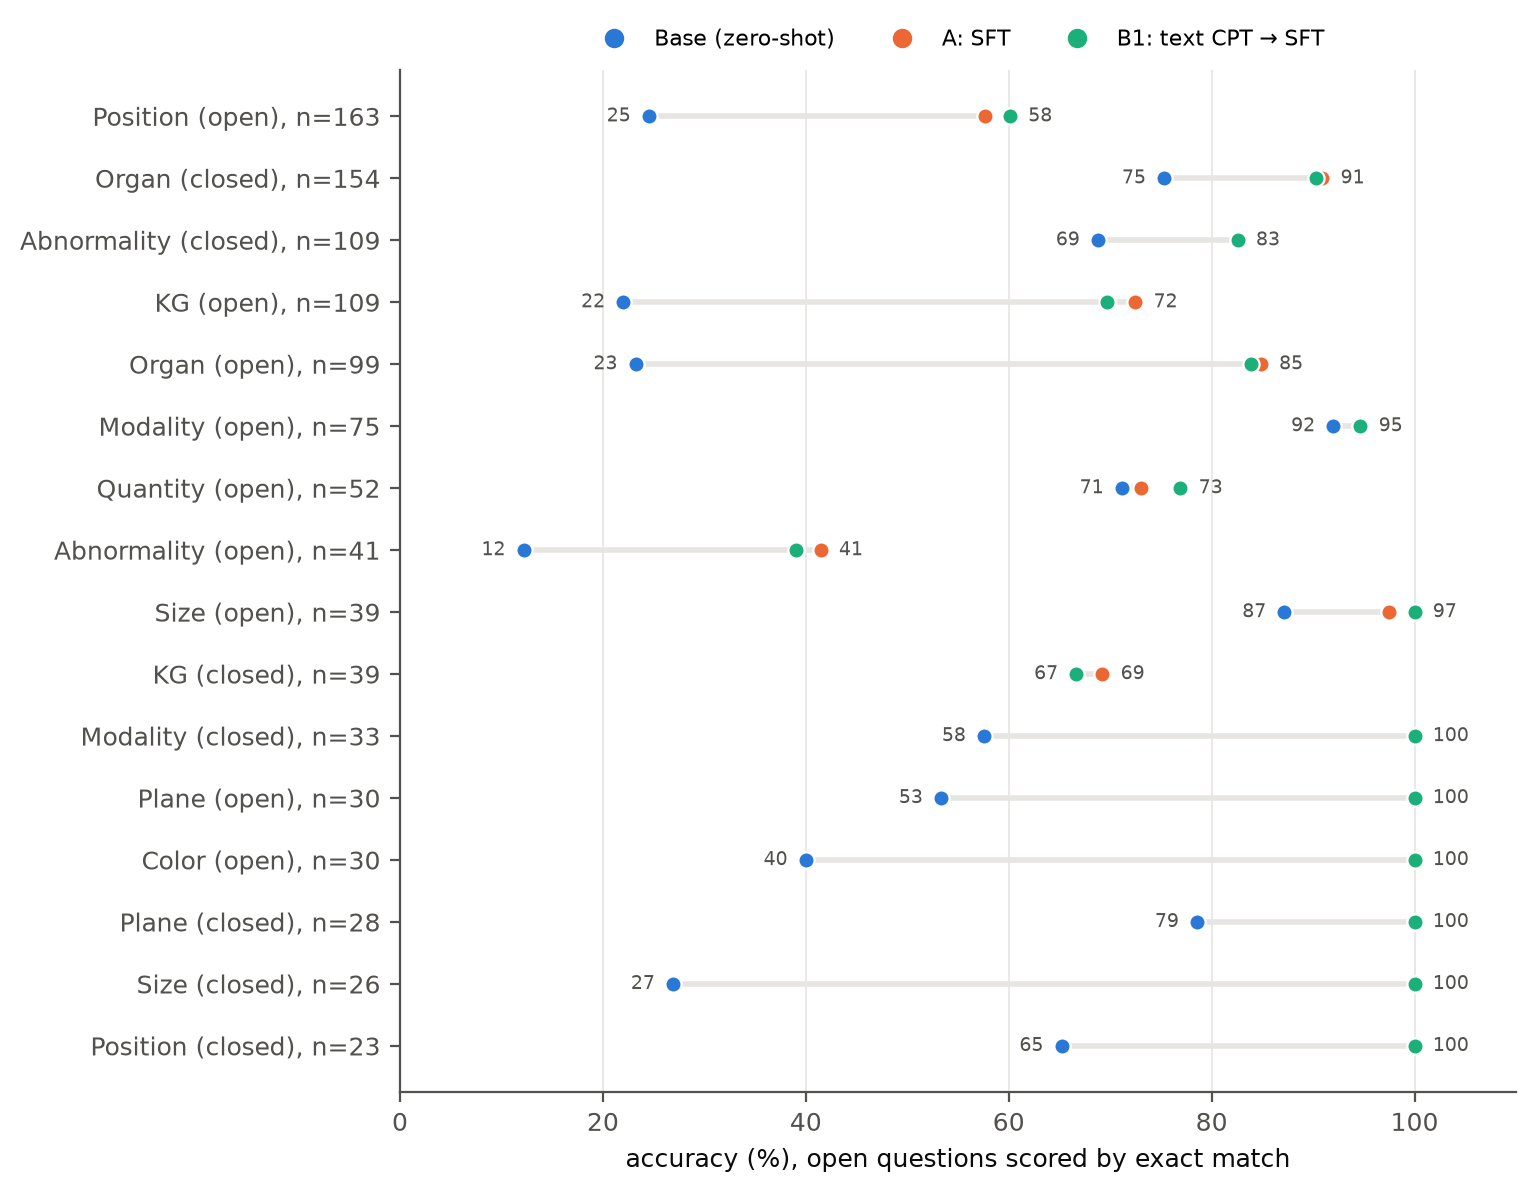
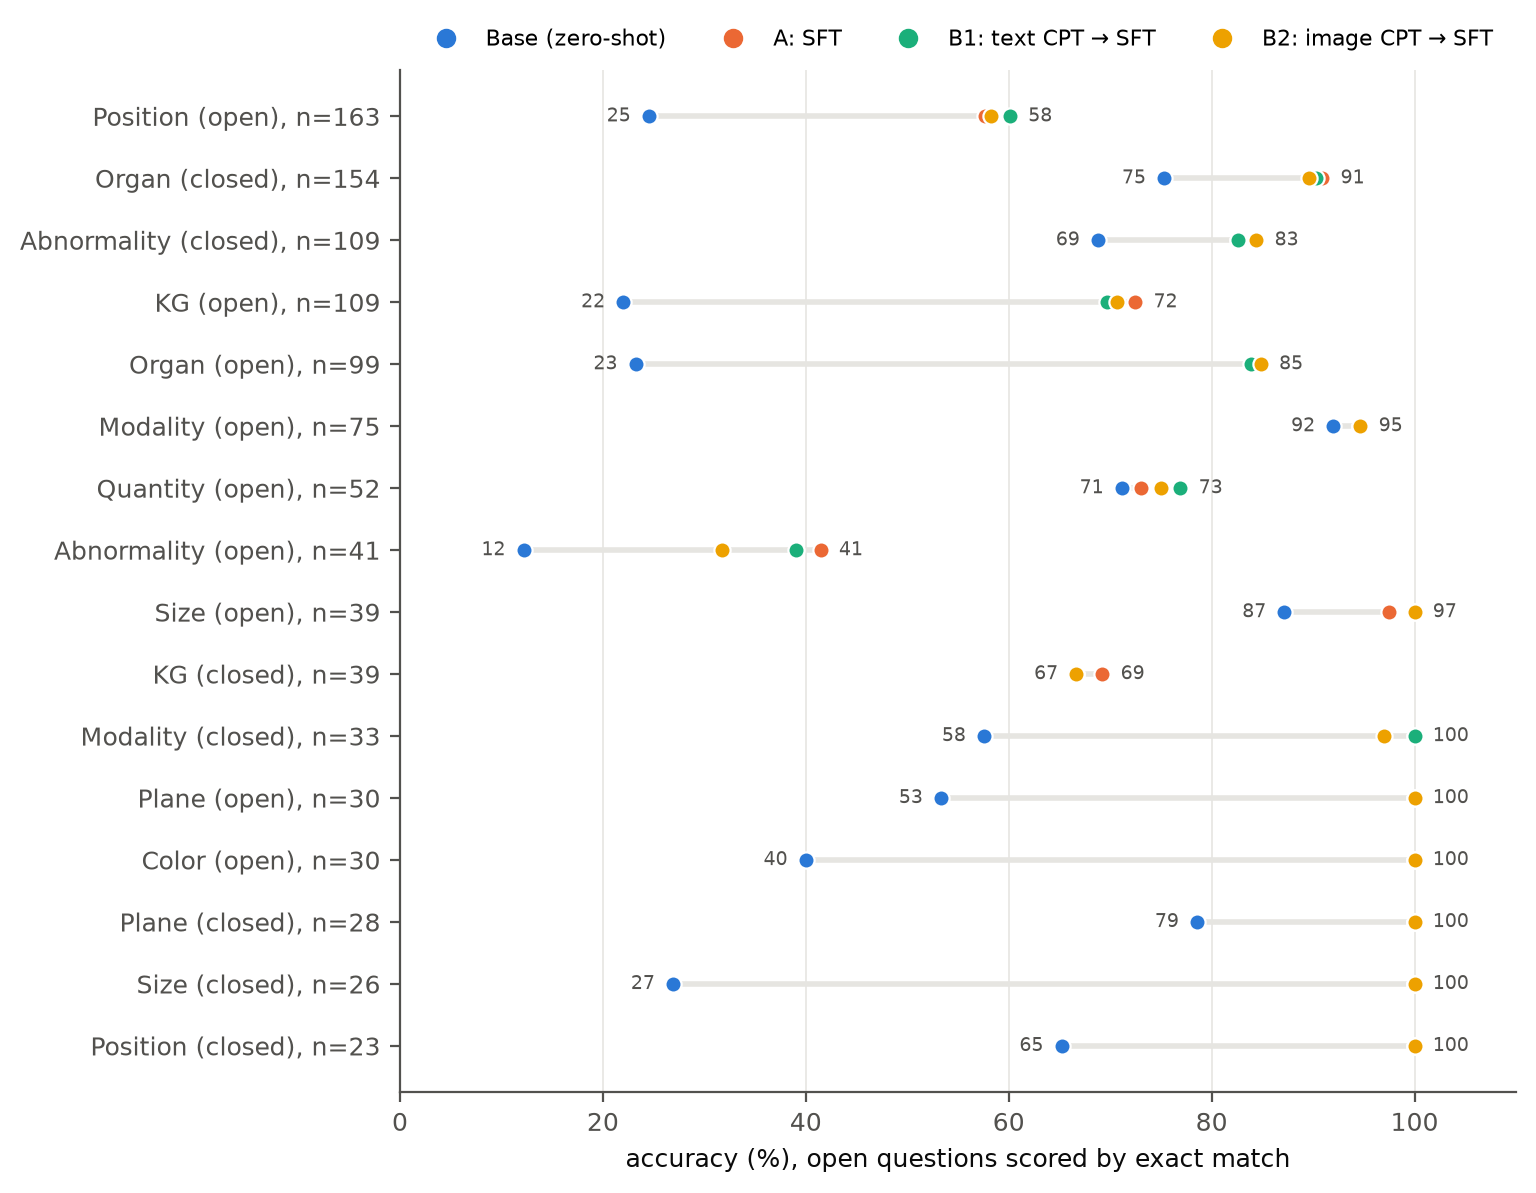
Experiment B2 (IU X-Ray image-text CPT -> SFT): results, analysis, figures 1-6, report v0.2

diff --git a/scripts/make_fig6_examples.py b/scripts/make_fig6_examples.py
@@ -1,0 +1,83 @@
+"""Fig 6: 定性样例。左列 SLAKE 测试图 + 问题 + 各模型回答; 末行 (可选) IU X-Ray 胸片 + 模型生成报告 vs 真实报告。
+
+输入:
+  data/raw/SLAKE/test.json, data/raw/SLAKE/imgs/<img_name>
+  outputs/eval/slake_<tag>_preds.jsonl  (baseline / sft_r16 / cpt_sft_r16 / cpt_iu_sft_r16, 有哪个用哪个)
+  docs/figures/iu_examples.json (可选): [{"image": path, "gold": str, "pred": str}]
+用法: python scripts/make_fig6_examples.py [--qids 1,2,3]
+"""
+import argparse
+import json
+import textwrap
+from pathlib import Path
+
+import matplotlib
+matplotlib.use("Agg")
+import matplotlib.pyplot as plt
+from PIL import Image
+
+REPO = Path(__file__).resolve().parents[1]
+RAW, EV, OUT = REPO / "data" / "raw" / "SLAKE", REPO / "outputs" / "eval", REPO / "docs" / "figures"
+INK, INK2, GRID = "#0b0b0b", "#52514e", "#e6e5e1"
+COL = {"Base": "#2a78d6", "A": "#eb6834", "B1": "#1baf7a", "B2": "#eda100"}
+TAGS = [("Base", "baseline"), ("A", "sft_r16"), ("B1", "cpt_sft_r16"), ("B2", "cpt_iu_sft_r16")]
+plt.rcParams.update({"font.family": "DejaVu Sans", "font.size": 8, "savefig.dpi": 200, "savefig.bbox": "tight",
+                     "savefig.facecolor": "white"})
+
+
+def load_preds(tag):
+    p = EV / f"slake_{tag}_preds.jsonl"
+    return {json.loads(l)["qid"]: json.loads(l) for l in open(p, encoding="utf-8")} if p.exists() else None
+
+
+def pick(preds, want):
+    """默认挑: 基座错、A 对的题, 每种题型一条, 优先图片不同。"""
+    base, a = preds["Base"], preds["A"]
+    chosen, used_img = [], set()
+    for ct, at in want:
+        for q, r in base.items():
+            if r["content_type"] == ct and r["answer_type"] == at and r["score"] == 0 and a[q]["score"] == 1 \
+                    and META[q]["img_name"] not in used_img and len(r["pred"]) < 40:
+                chosen.append(q); used_img.add(META[q]["img_name"]); break
+    return chosen
+
+
+ap = argparse.ArgumentParser()
+ap.add_argument("--qids", default="")
+args = ap.parse_args()
+
+META = {r["qid"]: r for r in json.load(open(RAW / "test.json", encoding="utf-8")) if r.get("q_lang", "en") == "en"}
+preds = {n: load_preds(t) for n, t in TAGS}
+preds = {n: p for n, p in preds.items() if p}
+qids = [int(x) for x in args.qids.split(",") if x] or pick(preds, [("Abnormality", "OPEN"), ("Position", "OPEN"), ("Organ", "CLOSED")])
+iu = json.load(open(OUT / "iu_examples.json", encoding="utf-8")) if (OUT / "iu_examples.json").exists() else []
+rows = len(qids) + (1 if iu else 0)
+
+fig = plt.figure(figsize=(8.6, 2.5 * rows))
+gs = fig.add_gridspec(rows, 2, width_ratios=[1, 2.4], wspace=0.05, hspace=0.25)
+for i, q in enumerate(qids):
+    m = META[q]
+    axi = fig.add_subplot(gs[i, 0]); axt = fig.add_subplot(gs[i, 1]); axt.axis("off")
+    axi.imshow(Image.open(RAW / "imgs" / m["img_name"]).convert("RGB")); axi.axis("off")
+    axi.set_title(f"{m['modality']} · {m['content_type']} ({m['answer_type'].lower()})", fontsize=8, color=INK2, loc="left")
+    y = 0.95
+    axt.text(0, y, "Q: " + textwrap.fill(m["question"], 70), va="top", fontsize=8.5, color=INK, weight="bold", transform=axt.transAxes)
+    y -= 0.2
+    axt.text(0, y, "Gold: " + m["answer"], va="top", fontsize=8.5, color=INK, transform=axt.transAxes)
+    y -= 0.18
+    for n in preds:
+        r = preds[n][q]
+        mark = "✓" if r["score"] == 1 else "✗"
+        axt.scatter(0.01, y - 0.03, s=30, color=COL[n], transform=axt.transAxes, clip_on=False)
+        axt.text(0.05, y, f"{n}: {r['pred']}   {mark}", va="top", fontsize=8.5, color=INK if r["score"] == 1 else INK2,
+                 transform=axt.transAxes)
+        y -= 0.15
+if iu:
+    e = iu[0]
+    axi = fig.add_subplot(gs[rows - 1, 0]); axt = fig.add_subplot(gs[rows - 1, 1]); axt.axis("off")
+    axi.imshow(Image.open(e["image"]).convert("RGB"), cmap="gray"); axi.axis("off")
+    axi.set_title("IU X-Ray · report generation after image-text CPT (B2)", fontsize=8, color=INK2, loc="left")
+    axt.text(0, 0.97, "Reference report:\n" + textwrap.fill(e["gold"], 78), va="top", fontsize=7.4, color=INK, transform=axt.transAxes)
+    axt.text(0, 0.47, "Generated by B2 CPT adapter:\n" + textwrap.fill(e["pred"], 78), va="top", fontsize=7.4, color=INK2, transform=axt.transAxes)
+fig.savefig(OUT / "fig6_examples.png")
+print("qids:", qids, "->", OUT / "fig6_examples.png")

diff --git a/docs/report.md b/docs/report.md
@@ -1,14 +1,14 @@
 # Parameter-Efficient Continued Pre-training and Instruction Tuning of a Medical Vision-Language Model
 
-**Course project, Topic 6 (Task 1.3)** · Draft v0.1, 2026-09-16 · Author: Chunqian Loo
+**Course project, Topic 6 (Task 1.3)** · Draft v0.2, 2026-09-16 · Author: Chunqian Loo
 
-> **Draft status.** Sections 3, 4 and 5 are written from the repository as it stands (base model, experiments 0, A and B1). Experiment B2 (image-text CPT) is running and its numbers are marked `TBD`. Section 2 (Related Work) is an outline with citation placeholders. Everything marked `[TODO]` still needs work. Repository: https://github.com/AugustLoo/MedLoRA
+> **Draft status.** Sections 3, 4, 5 and 6 are written from the repository as it stands. Experiments 0, A, B1 and B2 are complete. Section 2 (Related Work) is an outline with citation placeholders. Everything marked `[TODO]` still needs work. Repository: https://github.com/AugustLoo/MedLoRA
 
 ---
 
 ## Abstract
 
-Open-weight vision-language models (VLMs) in the 2–7B range answer general visual questions well but lag on medical images. This project studies a parameter-efficient adaptation pipeline, continued pre-training (CPT) followed by LoRA/QLoRA supervised fine-tuning (SFT), for Qwen2.5-VL-3B-Instruct, with three fixed evaluation tables: medical VQA (SLAKE), general-ability retention (TextVQA subset) and answer reliability (PubMedQA). QLoRA SFT on 4.9k SLAKE questions raises closed-question accuracy from 67.3 to 89.2 and open-question recall from 46.7 to 82.2 with no measurable loss on TextVQA. A text-only CPT stage on 10k PubMed abstracts does not transfer to image questions (SLAKE unchanged within ±0.6) but improves text-only medical reasoning (PubMedQA +2.2). `[TODO: one sentence on B2 image-text CPT once results are in]`. The residual errors concentrate in lesion identification and spatial localisation, and a persistent "yes" bias on PubMedQA is identified as the target for the alignment stage. All adapters, data-generation scripts, evaluation code and configurations are released for one-command reproduction.
+Open-weight vision-language models (VLMs) in the 2–7B range answer general visual questions well but lag on medical images. This project studies a parameter-efficient adaptation pipeline, continued pre-training (CPT) followed by LoRA/QLoRA supervised fine-tuning (SFT), for Qwen2.5-VL-3B-Instruct, with three fixed evaluation tables: medical VQA (SLAKE), general-ability retention (TextVQA subset) and answer reliability (PubMedQA). QLoRA SFT on 4.9k SLAKE questions raises closed-question accuracy from 67.3 to 89.2 and open-question recall from 46.7 to 82.2 with no measurable loss on TextVQA. A text-only CPT stage on 10k PubMed abstracts does not transfer to image questions (SLAKE unchanged within ±0.6) but improves text-only medical reasoning (PubMedQA +2.2). An image-text CPT stage on 3.5k IU X-Ray image-report pairs learns the radiology report style but not the findings, and leaves SLAKE unchanged (closed 88.7) while lowering open lesion questions; in this regime, a 3B model with a frozen vision tower and a few thousand CPT examples, the CPT stage does not contribute to the primary metric. The residual errors concentrate in lesion identification and spatial localisation, and a persistent "yes" bias on PubMedQA is identified as the target for the alignment stage. All adapters, data-generation scripts, evaluation code and configurations are released for one-command reproduction.
 
 ---
 
@@ -126,7 +126,8 @@ All training and evaluation ran on Kaggle (one NVIDIA T4, 16 GB, fp16). A local 
 | A: SLAKE SFT, 3 epochs | 4,919 × 3 | 4 h 28 min | 0.92 samples/s |
 | B1: text CPT, 1 epoch | 10,000 packed | 2 h 39 min | 0.42 samples/s |
 | B1: SFT after CPT | 4,919 × 3 | 4 h 07 min | 1.0 samples/s |
-| B2: image-text CPT + SFT | `TBD` | `TBD` | `TBD` |
+| B2: image-text CPT, 1 epoch | 3,483 image-report pairs | 1 h 19 min | 0.73 samples/s |
+| B2: SFT after CPT | 4,919 × 3 | 4 h 38 min | 0.89 samples/s |
 
 ### 4.4 Experiment matrix
 
@@ -135,7 +136,7 @@ All training and evaluation ran on Kaggle (one NVIDIA T4, 16 GB, fp16). A local 
 | 0 | – | – | zero-shot starting point | done |
 | A | – | SLAKE SFT | gain from instruction tuning alone | done |
 | B1 | text CPT (PubMedQA) | SLAKE SFT | does text CPT transfer to image VQA | done |
-| B2 | image-text CPT (IU X-Ray) | SLAKE SFT | does image-report CPT transfer | running |
+| B2 | image-text CPT (IU X-Ray) | SLAKE SFT | does image-report CPT transfer | done |
 | B3 | image-text CPT filtered by alignment score (CheXpert Plus) | SLAKE SFT | value of data-quality filtering | needs teammate interface |
 | C | best of B | SFT + general VQA replay (5 % / 10 %) | forgetting mitigation | planned |
 | D | ablations: rank 8/16/32, CPT size, lr, epochs | | which factor matters | planned |
@@ -149,17 +150,17 @@ All training and evaluation ran on Kaggle (one NVIDIA T4, 16 GB, fp16). A local 
 
 | Metric | Base (0) | A: SFT | B1: text CPT → SFT | B2: image CPT → SFT |
 |---|---|---|---|---|
-| SLAKE closed acc | 67.31 | **89.18** | 88.70 | `TBD` |
-| SLAKE open EM | 40.62 | 75.35 | **75.81** | `TBD` |
-| SLAKE open recall | 46.73 | 82.17 | **82.72** | `TBD` |
-| SLAKE open F1 | 47.53 | 81.56 | **82.07** | `TBD` |
-| SLAKE closed, X-Ray / CT / MRI | 80.70 / 64.49 / 56.82 | 91.23 / 86.45 / 93.18 | 91.23 / 85.51 / 93.18 | `TBD` |
-| TextVQA acc (retention) | 83.89 | 83.89 | 83.78 | `TBD` |
-| PubMedQA acc | 65.80 | 70.60 | **72.80** | `TBD` |
-| PubMedQA macro-F1 | 51.03 | 52.38 | **54.19** | `TBD` |
-| PubMedQA predicted yes / no / maybe (gold 552 / 338 / 110) | 641 / 201 / 158 | 685 / 256 / 59 | 670 / 286 / 44 | `TBD` |
+| SLAKE closed acc | 67.31 | **89.18** | 88.70 | 88.70 |
+| SLAKE open EM | 40.62 | 75.35 | **75.81** | 74.57 |
+| SLAKE open recall | 46.73 | 82.17 | **82.72** | 81.61 |
+| SLAKE open F1 | 47.53 | 81.56 | **82.07** | 80.88 |
+| SLAKE closed, X-Ray / CT / MRI | 80.70 / 64.49 / 56.82 | 91.23 / 86.45 / 93.18 | 91.23 / 85.51 / 93.18 | **92.11** / 85.05 / 93.18 |
+| TextVQA acc (retention) | 83.89 | 83.89 | 83.78 | 84.00 |
+| PubMedQA acc | 65.80 | 70.60 | **72.80** | 70.80 |
+| PubMedQA macro-F1 | 51.03 | 52.38 | **54.19** | 52.96 |
+| PubMedQA predicted yes / no / maybe (gold 552 / 338 / 110) | 641 / 201 / 158 | 685 / 256 / 59 | 670 / 286 / 44 | 672 / 263 / 65 |
 
-Training curves: A, train loss 0.736 → 0.082, validation loss 0.225 → 0.145 still decreasing at epoch 3; B1 CPT loss 1.96 → 1.75 over one epoch; B1 SFT validation loss 0.160 → 0.142. No NaN in any run.
+Training curves: A, train loss 0.736 → 0.082, validation loss 0.225 → 0.145 still decreasing at epoch 3; B1 CPT loss 1.96 → 1.75 over one epoch; B1 SFT validation loss 0.160 → 0.142; B2 CPT loss 2.17 → 1.06; B2 SFT validation loss 0.168 → 0.151. No NaN in any run.
 
 ![Figure 2. Main results.](figures/fig2_main_results.png)
 
@@ -171,27 +172,31 @@ Training curves: A, train loss 0.736 → 0.082, validation loss 0.225 → 0.145 
 
 ### 5.2 Results by question type (SLAKE test, accuracy; open questions use exact match)
 
-| Type | n | Base | A | B1 | B1 − A |
-|---|---|---|---|---|---|
-| Position, open | 163 | 24.5 | 57.7 | 60.1 | +2.5 |
-| Organ, closed | 154 | 75.3 | 90.9 | 90.3 | −0.6 |
-| Abnormality, closed | 109 | 68.8 | 82.6 | 82.6 | 0.0 |
-| Knowledge-graph, open | 109 | 22.0 | 72.5 | 69.7 | −2.8 |
-| Organ, open | 99 | 23.2 | 84.8 | 83.8 | −1.0 |
-| Modality, open | 75 | – | 94.7 | 94.7 | 0.0 |
-| Quantity, open | 52 | – | 73.1 | 76.9 | +3.8 |
-| Abnormality, open | 41 | 12.2 | 41.5 | 39.0 | −2.4 |
-| Modality / Plane / Colour / Size, closed | 91 | 26.9–78.6 | 100.0 | 100.0 | 0.0 |
+| Type | n | Base | A | B1 | B2 | B1 − A | B2 − A |
+|---|---|---|---|---|---|---|---|
+| Position, open | 163 | 24.5 | 57.7 | 60.1 | 58.3 | +2.5 | +0.6 |
+| Organ, closed | 154 | 75.3 | 90.9 | 90.3 | 89.6 | −0.6 | −1.3 |
+| Abnormality, closed | 109 | 68.8 | 82.6 | 82.6 | 84.4 | 0.0 | +1.8 |
+| Knowledge-graph, open | 109 | 22.0 | 72.5 | 69.7 | 70.6 | −2.8 | −1.8 |
+| Organ, open | 99 | 23.2 | 84.8 | 83.8 | 84.8 | −1.0 | 0.0 |
+| Modality, open | 75 | 92.0 | 94.7 | 94.7 | 94.7 | 0.0 | 0.0 |
+| Quantity, open | 52 | 71.2 | 73.1 | 76.9 | 75.0 | +3.8 | +1.9 |
+| Abnormality, open | 41 | 12.2 | 41.5 | 39.0 | **31.7** | −2.4 | **−9.8** |
+| Modality / Plane / Colour / Size, closed | 91 | 26.9–78.6 | 100.0 | 100.0 | 97.0–100.0 | 0.0 | −1.1 |
 
-Per-question changes: base → A fixed 345 questions and broke 30; A → B1 fixed 15 and broke 14.
+Per-question changes: base → A fixed 345 questions and broke 30; A → B1 fixed 15 and broke 14; A → B2 fixed 11 and broke 18. On the X-ray subset alone (the CPT modality), B2 versus A is 74.5 versus 76.5 on open questions and 92.1 versus 91.2 on closed.
 
 ![Figure 3. SLAKE accuracy by question type.](figures/fig3_slake_by_type.png)
 
 *Figure 3. SLAKE test accuracy by question type. The grey bar spans base → A; the largest gains are on vocabulary-bound types (Organ, KG, Colour, Plane), the smallest on Abnormality and Position.*
 
-### 5.3 Experiment B2 `[TBD]`
+### 5.3 Experiment B2: what the image-text CPT stage learned
 
-`[TODO: main-table column, per-type table, and the three CPT smoke-test report generations (gold vs. predicted) from the notebook]`
+Before the SFT stage, the B2 CPT adapter was asked to write reports for three held-out IU X-Ray images. The generations are fluent, correctly structured radiology reports ("Findings: The heart is normal in size. The lungs are clear. No pneumothorax or pleural effusion. Impression: No acute cardiopulmonary abnormality."), but two of the three reference reports describe abnormalities (bibasilar opacities; a right pleural opacity with effusion) and both were reported as normal. The CPT loss fell from 2.17 to 1.06 in one epoch, so the objective was learned; what was learned is the dominant report template. In the IU X-Ray training split 36 % of reports are normal, and abnormal reports are still written mostly as negations ("no effusion"), so a caption loss with a frozen vision tower rewards the template rather than the image.
+
+![Figure 6. Qualitative examples.](figures/fig6_examples.png)
+
+*Figure 6. Top: three SLAKE test questions the base model gets wrong and every fine-tuned model gets right. Bottom: an abnormal IU X-Ray held-out image; the B2 CPT adapter writes a fluent normal report.*
 
 ---
 
@@ -200,6 +205,8 @@ Per-question changes: base → A fixed 345 questions and broke 30; A → B1 fixe
 **Where SFT gains come from.** The largest jumps after SFT are on Organ (+61.6 open), Knowledge-graph (+50.5) and the closed Modality/Plane/Colour/Size types (to 100 %). These are questions the base model could already perceive but answered with the wrong vocabulary or format ("the lungs" versus "lung", full sentences versus a phrase). SFT is largely *vocabulary and format alignment* here. Genuine perception questions moved less: Abnormality-open reaches only 41.5 % and Position-open 57.7 %. Remaining errors are left/right and upper/lower confusions and lesion-category mix-ups.
 
 **MRI: data, not capacity.** MRI was the weakest modality at baseline (56.8) and becomes the strongest after SFT (93.2). SLAKE's training set is MRI-heavy, so the base model lacked domain exposure rather than the ability to read MR images.
+
+**Image-text CPT does not help either, and slightly hurts lesion questions.** B2 matches A on closed questions (88.7 versus 89.2) and is 0.6 below on open recall; per question it fixes 11 and breaks 18. The one type that moves beyond noise is Abnormality-open, down from 41.5 to 31.7 (four of 41 questions). This is consistent with Section 5.3: the CPT stage instilled a "normal chest" prior in the language model without changing the visual features, and that prior is a liability on lesion questions. The X-ray closed-question gain (+0.9, one question of 114) is within noise. Taken together, B1 and B2 say that in this regime, a 3B model with a frozen vision tower and a few thousand CPT examples, the CPT stage contributes nothing to the primary metric; text CPT helps only text tasks. Two changes would be needed for a CPT stage to matter: unfreezing the vision tower (or LoRA on the ViT), or a label-balanced image-report corpus (CheXpert Plus sampled by finding). The report therefore treats A as the main result and B1/B2 as controlled evidence on when CPT does not help.
 
 **Text CPT does not cross the modality gap.** B1 and A are indistinguishable on SLAKE: every metric within ±0.6, per-question changes 15 fixed versus 14 broken. Two explanations, both plausible: the CPT corpus (abstract-level biomedical text) does not contain the localisation and lesion vocabulary SLAKE tests, and CPT updates only the LLM while the vision side is frozen. The CPT stage is nevertheless effective in its own domain: PubMedQA improves by 2.2 accuracy and 1.8 macro-F1. This motivates image-text CPT (B2) as the only CPT variant that can plausibly help the primary metric.
 

diff --git a/results/README.md b/results/README.md
@@ -82,3 +82,28 @@ CPT 2 h 39 min (0.42 样本/秒, loss 1.96 → 1.75); SFT 4 h 07 min (loss 1.38 
 - **yes 偏置仍在**: no→yes 误判 92 例, maybe→yes 77 例; maybe 只答了 44 个。文本 CPT 没有改善可靠性。
 - 由此实验 B2 (图文 CPT, IU X-Ray / CheXpert Plus 的图片+报告) 是必要的, 否则 CPT 阶段对本课题的主指标无贡献。报告中 B1 作为「文本 CPT 不足以提升医学 VQA」的对照证据保留。
 - 时间: CPT 的 packing 序列在 T4 上只有 0.42 样本/秒, 1 万条已经 2.6 h; 图文 CPT 数据量要控制在 5k 以内或等学院服务器。
+
+## 实验 B2 · IU X-Ray 图文 CPT → SLAKE SFT (2026-09-16)
+
+配置 `configs/cpt_iu_qlora.yaml` (3483 张正位胸片 → Findings+Impression 报告, caption 式对齐, 1 epoch, lr 5e-5) → `configs/sft_after_cpt_iu.yaml` (与 A 同参数)。
+CPT 1 h 19 min (0.73 样本/秒, loss 2.17 → 1.06); SFT 4 h 38 min (loss 0.73 → 0.083, eval 0.168 → 0.151); 评估 1.5 h; 合计 7.7 h。无 NaN。
+
+| 指标 | 基座 | A | B1 文本 CPT | B2 图文 CPT | B2−A |
+|---|---|---|---|---|---|
+| SLAKE closed acc | 67.31 | 89.18 | 88.70 | 88.70 | −0.48 |
+| SLAKE open EM / recall / F1 | 40.62 / 46.73 / 47.53 | 75.35 / 82.17 / 81.56 | 75.81 / 82.72 / 82.07 | 74.57 / 81.61 / 80.88 | −0.8 / −0.6 / −0.7 |
+| SLAKE closed X-Ray / CT / MRI | 80.70 / 64.49 / 56.82 | 91.23 / 86.45 / 93.18 | 91.23 / 85.51 / 93.18 | **92.11** / 85.05 / 93.18 | +0.9 / −1.4 / 0 |
+| TextVQA acc | 83.89 | 83.89 | 83.78 | 84.00 | +0.11 |
+| PubMedQA acc / macro-F1 | 65.80 / 51.03 | 70.60 / 52.38 | 72.80 / 54.19 | 70.80 / 52.96 | +0.2 / +0.6 |
+| PubMedQA 预测 yes / no / maybe | 641 / 201 / 158 | 685 / 256 / 59 | 670 / 286 / 44 | 672 / 263 / 65 | 真实 552 / 338 / 110 |
+
+按题型 B2−A: Abnormality open **−9.8** (41.5 → 31.7, n=41, 即少对 4 题), Modality closed −3.0, KG closed −2.6, KG open −1.8; Abnormality closed +1.8, Quantity +1.9, Size open +2.6; 其余 ±1。逐题 A→B2: 修正 11 题, 新错 18 题。X 光片子集: open 76.5 → 74.5, closed 91.2 → 92.1。
+
+CPT 阶段冒烟 (给 3 张验证片写报告): 模型完全学会了放射报告的句式和结构 ("The heart is normal in size. The lungs are clear. No pneumothorax or pleural effusion. Impression: No acute cardiopulmonary abnormality."), 但 3 张里 2 张有异常 (双下肺斑片影 / 右侧胸腔积液) 都被写成正常。
+
+结论:
+- **图文 CPT 同样没有给 SLAKE 带来增益**, 整体略降 (open −0.6, 逐题 11 对 18)。X 光片封闭题小涨 0.9 (114 题涨 1 题), 在噪声内。
+- **CPT 学到的是语言, 不是视觉**: 报告语体学得很像, 但对异常视而不见, 输出向「正常」模板坍缩。IU X-Ray 训练集里 36% 是正常报告, 且异常报告的句子也大多以否定句 ("no effusion") 开头, caption 式 loss 让模型学会的是高频模板。视觉塔冻结, 视觉特征没有被改动, 所以 CPT 不可能提升「看片」。
+- 这也解释了 Abnormality open 的下降: 一个偏向「正常」的先验在识别病灶的题上是负作用。
+- 与 B1 合起来的结论: **在 3B 模型、冻结视觉塔、几千条数据的设定下, CPT 阶段对医学 VQA 主指标没有贡献**; 文本 CPT 只在文本任务 (PubMedQA) 上有效。报告主结果是 A, B1/B2 作为「CPT 何时无效」的对照证据。
+- 后续如果还要做 CPT, 必须改两处之一: 解冻视觉塔 (或给 ViT 也加 LoRA), 或换成异常均衡的图文对 (CheXpert Plus 按标签抽样)。否则把精力转向 SFT 数据配比 (C)、遗忘基准与可靠性对齐。
